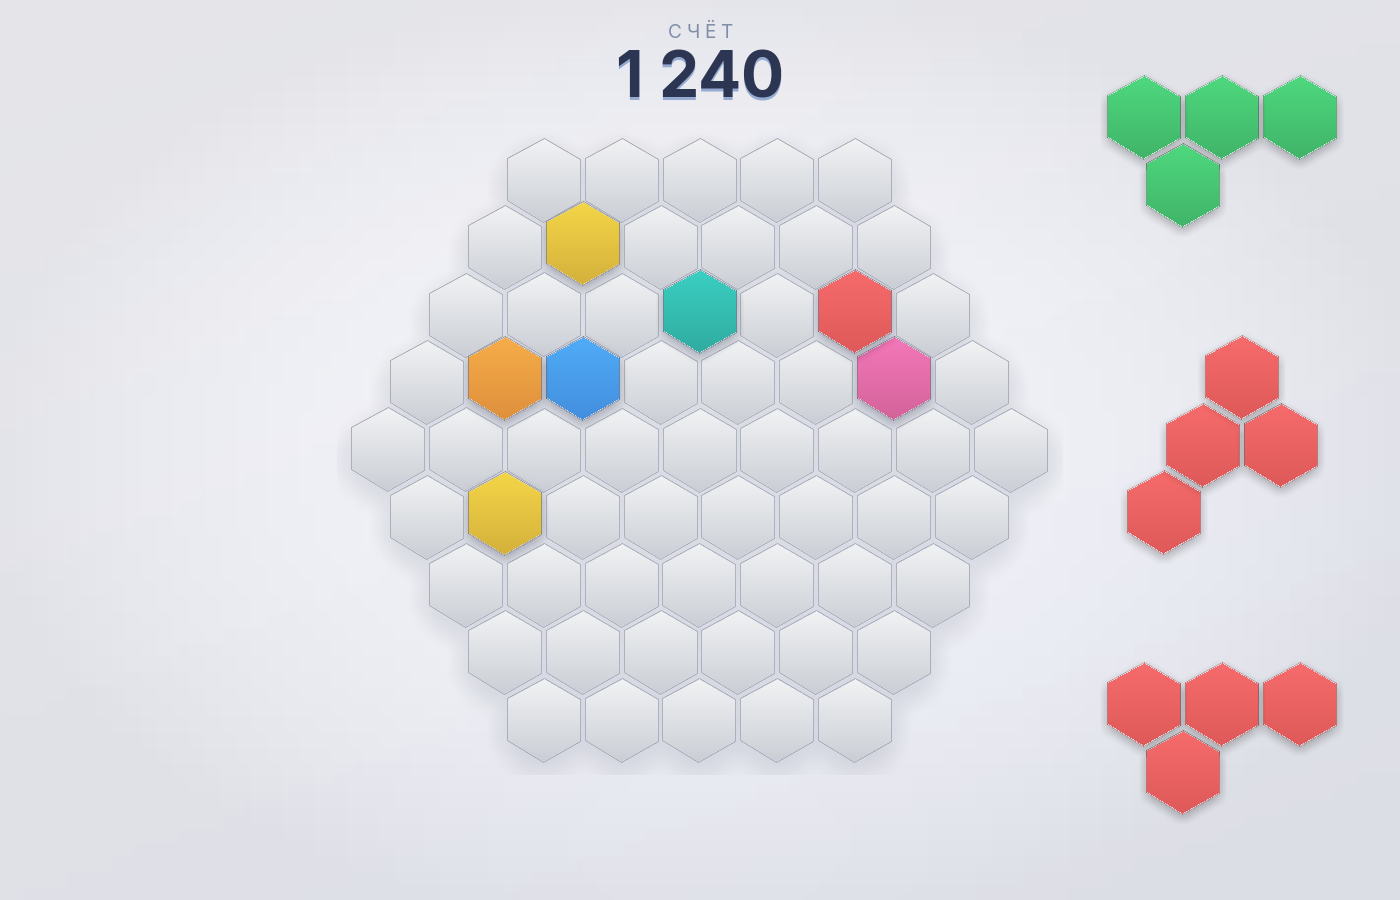
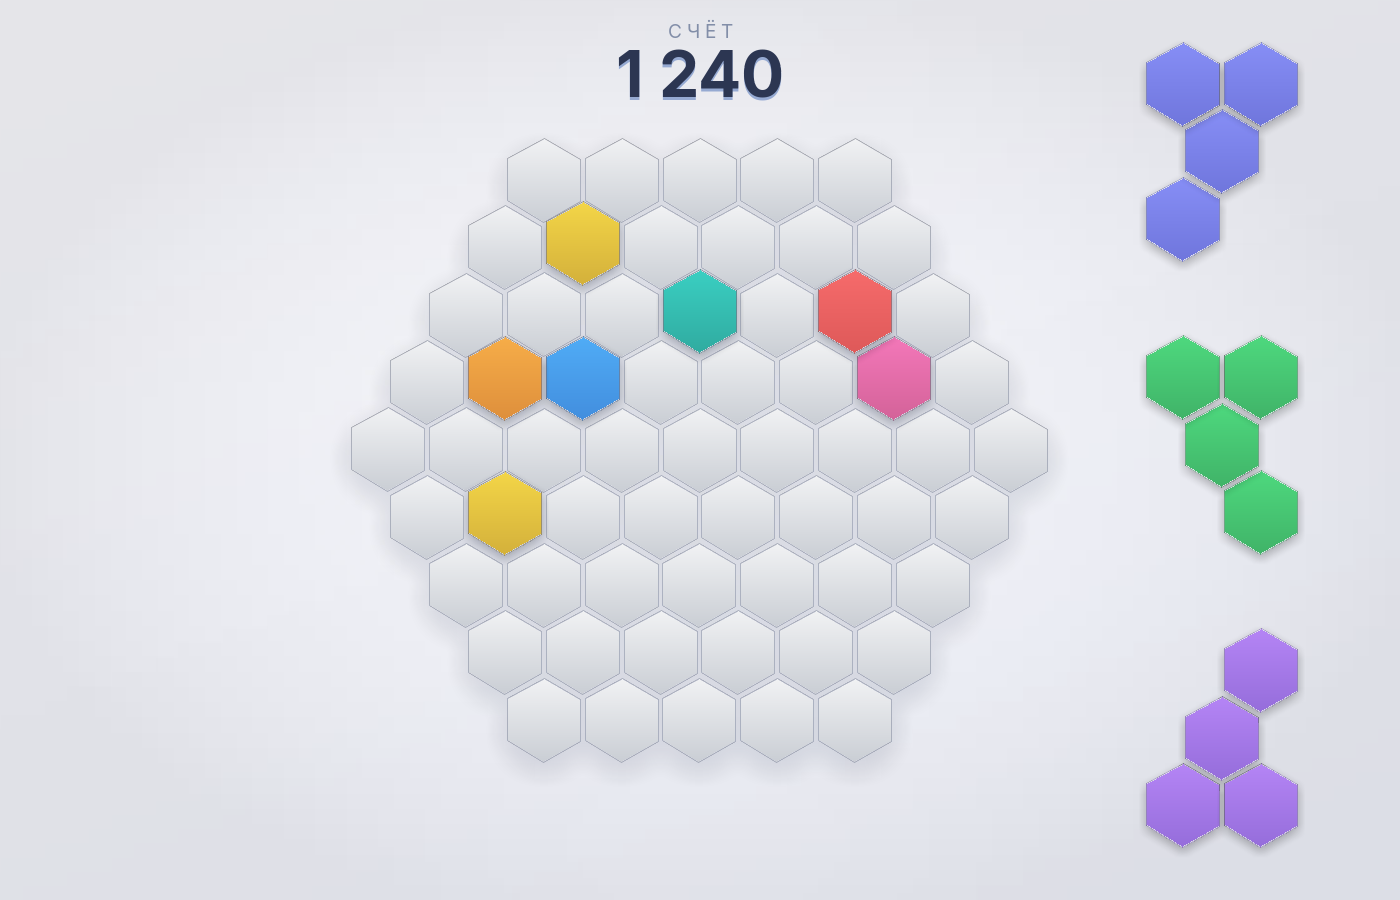
Тень игрового поля больше не обрезается по нижнему краю
Field.bounds не учитывал запас под мягкую тень, а рендер слоя обрезает
отрисовку по bounds. Поверхность тени была на 30 px больше границ слоя,
поэтому её нижняя часть срезалась ровной горизонтальной линией.

Теперь Field.bounds расширяется на SHADOW_MARGIN (54 px), и поверхность
тени строится ровно по этим границам — тень целиком помещается в область
перерисовки и плавно растворяется со всех сторон.

Проверки: тень покрыта bounds полностью (запас 0 по всем краям, тень
затухает до alpha=0 внутри поверхности); 146 фигур в 12 партиях с
фиксированным seed; 128 кадров анимаций сверены с полной перерисовкой —
следов нет. Скриншоты в README обновлены.

Changed region(s): [[0.7679, 0.6844, 0.9829, 0.9644], [0.7986, 0.3733, 0.9521, 0.6222], [0.7679, 0.0311, 0.9829, 0.3111]]

diff --git a/classes.py b/classes.py
@@ -692,20 +692,30 @@ class Field(Layer):
 
         self.invalidate(self.bounds)
 
+    SHADOW_MARGIN = 54
+
     @property
     def bounds(self):
+        """Границы слоя с запасом под мягкую тень доски.
+
+        Без этого запаса клип слоя срезал бы тень по ровной линии у нижнего
+        края — именно так она и выглядела обрезанной.
+        """
         rect = self.hexagon_list[0].bbox
         for hexagon in self.hexagon_list[1:]:
             rect = rect.union(hexagon.bbox)
-        return rect
+        return rect.inflate(self.SHADOW_MARGIN * 2, self.SHADOW_MARGIN * 2)
 
     def _get_shadow(self):
-        """Мягкая тень под всей доской, чтобы поле «парило» над фоном."""
+        """Мягкая тень под всей доской, чтобы поле «парило» над фоном.
+
+        Поверхность тени совпадает с bounds слоя: иначе клип срезал бы её.
+        """
         key = (len(self.hexagon_list), theme.name)
         if self._shadow is not None and self._shadow[0] == key:
             return self._shadow[1], self._shadow[2]
 
-        rect = self.bounds.inflate(60, 60)
+        rect = self.bounds
         shadow = pg.Surface(rect.size, pg.SRCALPHA)
         color = theme['board_shadow']
         for hexagon in self.hexagon_list:
